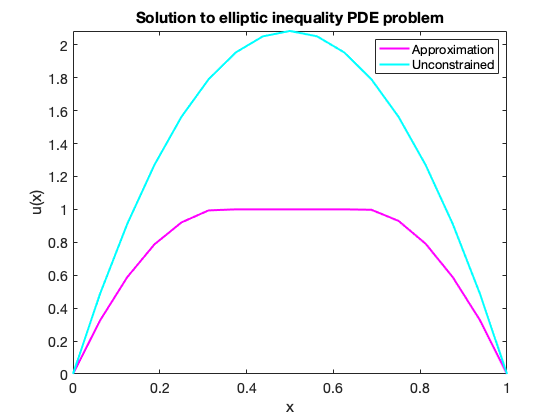
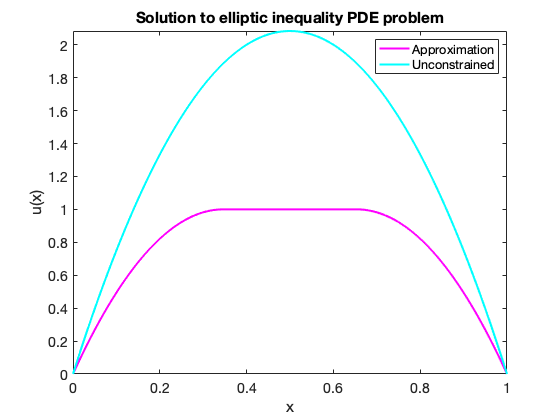
Finished Q4

diff --git a/EllipticInequalities/Elliptic.cpp b/EllipticInequalities/Elliptic.cpp
@@ -131,7 +131,7 @@ void Elliptic::SolveWithIter(const int iter) {
   delete uApproxOld;
 }
 
-// Solves problem until approximation converges
+// Solves problem until error is less than a tolerance
 void Elliptic::SolveWithTol(const double tol) {
 
   double *uApproxOld;
@@ -192,6 +192,70 @@ void Elliptic::SolveWithTol(const double tol) {
   }
 
   delete uApproxOld;
+}
+
+// Solves problem until approximation converges
+void Elliptic::SolveConvergence(const double tol) {
+  double *uApproxOld;
+  uApproxOld = new double[m];
+  for(int i=0; i<m; i++) {
+    uApproxOld[i] = (*mFunction).init(mNodes[i]);
+    uApprox[i] = (*mFunction).init(mNodes[i]);
+  }
+
+  double uVal, psi, psiVal;
+  double uDiff = 10;
+  int k=0;
+
+  // SOR method stops when the difference in iterations of SOR method is below
+  // a tolerance (current u - previous u)
+  while((uDiff >= tol)||(k>=100000)) {
+
+    // Implements SOR method
+    for(int i=0; i<m; i++) {
+
+      if (i==0) {
+        uVal = (mFvec[0]-(mUpper[0]*uApproxOld[1]))/mDiag[0];
+      } else if (i==m-1) {
+        uVal = (mFvec[m-1]-(mLower[m-2]*uApprox[m-2]))/mDiag[m-1];
+      } else {
+        uVal = (mFvec[i]-(mLower[i-1]*uApprox[i-1])-(mUpper[i]*uApproxOld[i+1]))/mDiag[i];
+      }
+      psi = (*mFunction).psi(mNodes[i]);
+
+      psiVal = (w*uVal)+((1.0-w)*uApproxOld[i]);
+
+      // Updates u values
+      if ( psi <psiVal) {
+        uApprox[i] = psi;
+      } else {
+        uApprox[i] = psiVal;
+      }
+    }
+
+    // Finds the difference in iterations for all u values and calculates the
+    // grid norm for this
+    double sum = 0;
+    for(int i=0; i<n-1; i++) {
+      sum = sum + fabs(uApprox[i]-uApproxOld[i]);
+    }
+    uDiff = sqrt(sum *h);
+    k = k+1;
+
+    // Update previous iteration
+    for (int i=0; i<m; i++) {
+      uApproxOld[i] = uApprox[i];
+    }
+
+  }
+  if (uDiff < tol) {
+    std::cout << "\nProcess finished after " << k << " iterations.\n";
+  } else {
+    std::cout << "\nApproximation did not converge.";
+  }
+
+  delete uApproxOld;
+
 }
 
 // Calculates unconstrained solution for the corresponding Q1 problem

diff --git a/EllipticInequalities/Driver.cpp b/EllipticInequalities/Driver.cpp
@@ -9,8 +9,9 @@
 void plot(const int n, std::string constraint, std::string solveMethod,
   const double parameter) {
   /* n+1 is the number of spatial mesh points
-  solveMethod can be "iter" or "tol" - specifies whether to solve the system
+  solveMethod can be "iter", "tol", "conv" - specifies whether to solve the system
   using a specific number of iterations or until the error is less than a tolerance
+  or until the approximation has converged
   constraint can be "constrained" or "unconstrained" - "constrained" plots the
   approximation against its exact solution, "unconstrained" plots it against the
   corresponding solution for Q1 (with no inequalities)
@@ -23,6 +24,8 @@ void plot(const int n, std::string constraint, std::string solveMethod,
   if (solveMethod=="iter") {
     // Solves using number of iterations
     (*PDE).SolveWithIter(parameter);
+  } if (solveMethod =="conv") {
+    (*PDE).SolveConvergence(parameter);
   } else {
     // Solves until approximation converges
     (*PDE).SolveWithTol(parameter);
@@ -49,7 +52,8 @@ void plotError(int start, int iter) {
     (*PDE).FindSystem();
     (*PDE).FindUExact();
     //(*PDE).SolveWithTol(0.05);
-    (*PDE).SolveWithIter(10e5);
+    //(*PDE).SolveWithIter(10e5);
+    (*PDE).SolveConvergence(0.000001);
 
     // Saves mesh size and grid error norm to file
     file << 1/double(n) << "," << (*PDE).GetNorm() << "," << std::endl;
@@ -86,6 +90,7 @@ void tableError(int start, int iter) {
     (*PDE).FindUExact();
     //(*PDE).SolveWithTol(0.001);
     //(*PDE).SolveWithIter(10000);
+    (*PDE).SolveConvergence(0.000001);
 
     // Store error and mesh spacing
     error[i-1] = (*PDE).GetNorm() ;
@@ -126,9 +131,9 @@ void tableError(int start, int iter);
 int main(int argc, char* argv[]) {
 
   //plot(16, "constrained","iter", 8);
-  //plot(100, "unconstrained", "tol", 0.05);
-  plotError(2,6);
-  //tableError(8,6);
+  //plot(100, "unconstrained", "conv", 0.000001);
+  //plotError(4,9);
+  //tableError(4,9);
 
   return 0;
 }

diff --git a/EllipticInequalities/Elliptic.hpp b/EllipticInequalities/Elliptic.hpp
@@ -30,6 +30,7 @@ class Elliptic {
     // Solves system
     void SolveWithIter(const int iter); // Solves with number of iterations
     void SolveWithTol(const double tol); // Solves with specific tolerance
+    void SolveConvergence(const double tol); // Solves until iterations have convergend
 
     void ShowApprox(); // Show approximation to problem
     void ShowExact(); // Show exact solution
